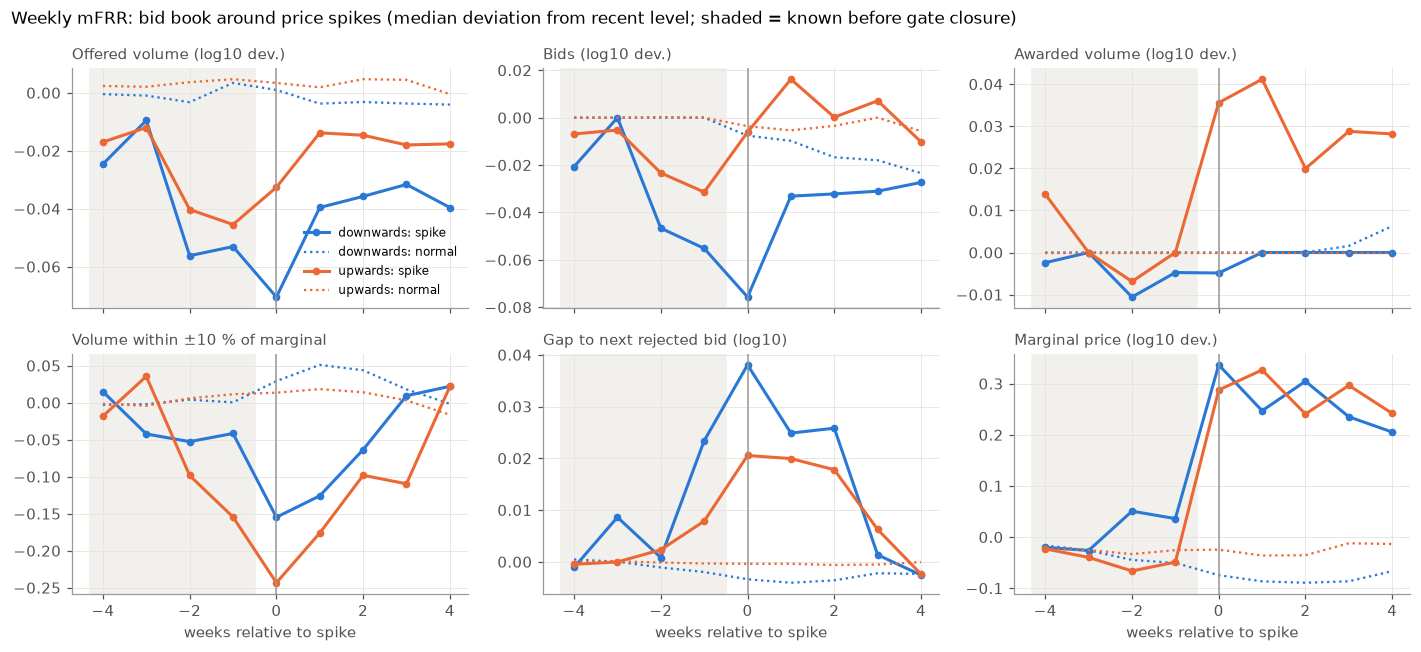
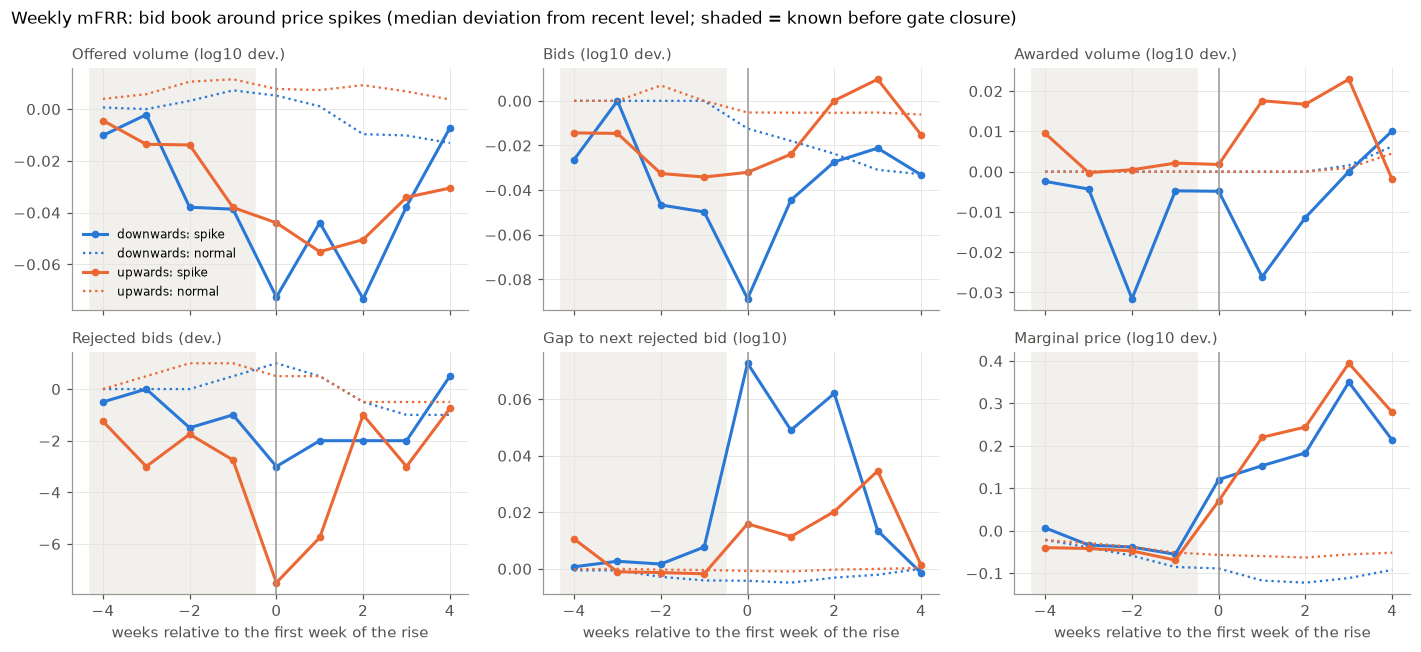
refactor: redefine weekly spikes as fast rise followed by decay in M3 EDA

diff --git a/reports/m3_market_notes.md b/reports/m3_market_notes.md
@@ -73,7 +73,7 @@ Each uses only information available before the target auction's gate closure, u
 | H1 | A bid rejected at *t−1* reappears **cheaper** at *t* (same series, same volume, nearest price); an accepted bid reappears at the same or a higher price. | Distribution of matched log price changes, rejected vs accepted; Mann-Whitney. Match quality reported. | mFRR weekly first, then daily per block |
 | H2 | The price change of a rejected bid scales with its distance above the marginal price (own outcome), not with the change in the published marginal price. | Regression of Δlog price on the distance above the marginal and on Δ marginal. | Matched bids |
 | H3 | Reaction is fast: most of the adjustment happens within 1 auction (weekly) or 1–2 days (daily). | Matched changes at lags 1, 2, 3. | Matched bids |
-| H4 | A thinner book at *t−1* (lower offered volume and bid count vs recent level) raises the probability of a weekly jump at *t*. | Already descriptive (AUC 0.65–0.68). Turn into a feature and test against the baseline in the walk-forward harness. | Weekly |
+| H4 | A thinner book at *t−1* (lower offered volume and bid count vs recent level) raises the probability that a weekly spike starts at *t*. | Already descriptive (AUC 0.66–0.68, spike-and-decay definition). Turn into a feature and test against the baseline in the walk-forward harness. | Weekly |
 | H5 | Daily no-buy weeks are predictable from the weekly auction of the same week (awarded volume above its recent level). | Classifier on weekly awarded vs recent level; AUC/precision by year. | Weekly → daily |
 | H6 | Daily prices of a week depend on how much the weekly auction covered: a large weekly award means less daily demand and lower daily marginals. | Daily marginal vs weekly awarded-relative, same week. | Weekly → daily |
 | H7 | The V21 change (daily aFRR tenders from 06.05.2026) shifts daily mFRR prices or volumes. | Before/after comparison around 2026-05-06; regime-shift test case for Sprint 3. | Daily 2026 |
